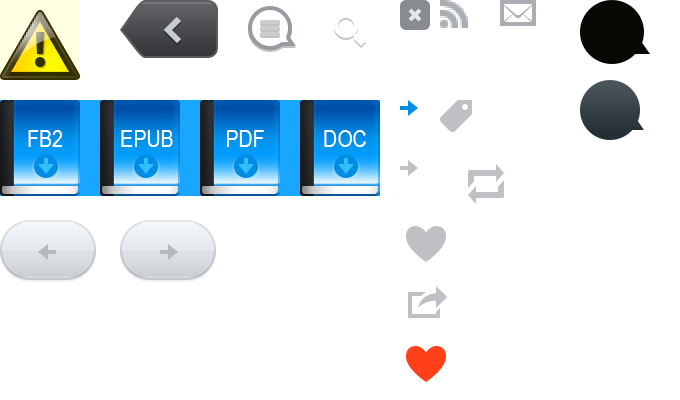
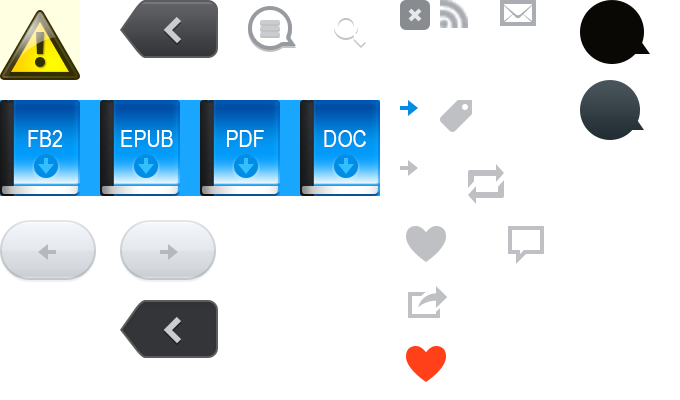
blog styles optimizing

Changed region(s): [[0.1544, 0.75, 0.3397, 0.9], [0.7412, 0.54, 0.8029, 0.66]]

diff --git a/a/css/styles.css b/a/css/styles.css
@@ -24,7 +24,7 @@ TEXTAREA{overflow:auto;resize:vertical;vertical-align:top;}
 TEXTAREA[contenteditable]{-webkit-appearance:none;}
 A.a-cta:after,.btn-back,.btn-menu:before,.btn-search:before,.ftr-copyright:before,.ico-epub,.ico-fb2,.ico-pdf,.ico-doc,.nameplate .smiley,.f-search BUTTON,.sm-rss:before,.sm-email:after,.next-page,.previous-page,.pagination .controls:before,.pft-share .body-label-4dd,.pft-like,.pft-liked,.pft-reblog A,.pft-comments I.co,.pft-tags I.co,.sys-message P:before,.warning-gl EM{background:transparent url('/a/img/base-graphics.png') no-repeat;}
 .ftr-channels I.co,.hdr-dropdown I.co,.body-dropdown I.co,.hdr-channels-facebоok,.hdr-channels-twitter,.hdr-channels-google,.hdr-channels-mail,.pst-channels-facebоok,.pst-channels-twitter,.pst-channels-google,.pst-channels-mail,.hdr-label-4dd{background:transparent url(/a/img/socials.png) no-repeat;}
-@media only screen and (-webkit-min-device-pixel-ratio:1.5),only screen and (min-resolution:144dpi){A.a-cta:after,.btn-back,.btn-menu:before,.btn-search:before,.ico-epub,.ico-fb2,.ico-pdf,.ico-doc,.nameplate .smiley,.f-search BUTTON,.sm-rss:before,.sm-email:after,.next-page,.previous-page,.pagination .controls:before,.p-front .ftr-copyright:before,.pft-share .body-label-4dd,.pft-like,.pft-liked,.pft-reblog A,.pft-comments I.co,.pft-tags I.co,.sys-message P:before,.warning-gl EM{background:transparent url(/a/img/base-graphics-x2.png) no-repeat;-webkit-background-size:340px 200px;-moz-background-size:340px 200px;-o-background-size:340px 200px;background-size:340px 200px;} .ftr-channels I.co,.hdr-dropdown I.co,.body-dropdown I.co,.hdr-channels-facebоok,.hdr-channels-twitter,.hdr-channels-google,.hdr-channels-mail,.pst-channels-facebоok,.pst-channels-twitter,.pst-channels-google,.pst-channels-mail,.hdr-label-4dd{background:transparent url(/a/img/socials-x2.png) no-repeat;-webkit-background-size:300px 100px;-moz-background-size:300px 100px;-o-background-size:300px 100px;background-size:300px 100px;}}
+@media only screen and (max-width:479px){.pft-comments .label{background:transparent url('/a/img/base-graphics.png') no-repeat;}}@media only screen and (-webkit-min-device-pixel-ratio:1.5),only screen and (min-resolution:144dpi){A.a-cta:after,.btn-back,.btn-menu:before,.btn-search:before,.ico-epub,.ico-fb2,.ico-pdf,.ico-doc,.nameplate .smiley,.f-search BUTTON,.sm-rss:before,.sm-email:after,.next-page,.previous-page,.pagination .controls:before,.p-front .ftr-copyright:before,.pft-share .body-label-4dd,.pft-like,.pft-liked,.pft-reblog A,.pft-comments I.co,.pft-tags I.co,.sys-message P:before,.warning-gl EM{background:transparent url(/a/img/base-graphics-x2.png) no-repeat;-webkit-background-size:340px 200px;-moz-background-size:340px 200px;-o-background-size:340px 200px;background-size:340px 200px;} .ftr-channels I.co,.hdr-dropdown I.co,.body-dropdown I.co,.hdr-channels-facebоok,.hdr-channels-twitter,.hdr-channels-google,.hdr-channels-mail,.pst-channels-facebоok,.pst-channels-twitter,.pst-channels-google,.pst-channels-mail,.hdr-label-4dd{background:transparent url(/a/img/socials-x2.png) no-repeat;-webkit-background-size:300px 100px;-moz-background-size:300px 100px;-o-background-size:300px 100px;background-size:300px 100px;}}@media only screen and (-webkit-min-device-pixel-ratio:1.5) and (max-width:479px),only screen and (min-resolution:144dpi) and (max-width:479px){.pft-comments .label{background:transparent url(/a/img/base-graphics-x2.png) no-repeat;-webkit-background-size:340px 200px;-moz-background-size:340px 200px;-o-background-size:340px 200px;background-size:340px 200px;}}
 HTML{overflow-y:scroll;}
 BODY{background:#ffffff repeat-x;counter-reset:section;text-align:center;margin:0;padding:0;}
 .page{background:#ffffff repeat-x;text-align:left;position:relative;margin:0 auto;min-height:100%;height:auto;*height:100%;max-width:960px;width:auto;*width:960px;*zoom:1;}
@@ -328,7 +328,7 @@ BUTTON{*padding:11px 10px;}
 .btn-small{padding:6px 10px;*padding:4px 10px;}
 TABLE BUTTON,TABLE .btn{*overflow:auto;}
 BUTTON.clear,BUTTON.close{background:#abaeb2;}
-@media only screen and (max-width:767px){.doc-body{}.doc-body BUTTON,.doc-body .btn{display:block;margin-top:-0.058823529411764705em;margin-bottom:1.8823529411764708em;padding:0.6470588235294118em 13px;width:100%;} .doc-body BUTTON+BUTTON,.doc-body .btn+.btn{margin-top:0.6470588235294118em;} .btn-menu,.btn-option,.btn-search{background-color:#4d4f52;background-image:-moz-linear-gradient(top, #5f6164, #333538);background-image:-webkit-gradient(linear, 0 0, 0 100%, from(#5f6164), to(#333538));background-image:-webkit-linear-gradient(top, #5f6164, #333538);background-image:-o-linear-gradient(top, #5f6164, #333538);background-image:linear-gradient(to bottom, #5f6164, #333538);background-repeat:repeat-x;filter:progid:DXImageTransform.Microsoft.Gradient(startColorstr=#5f6164, endColorstr=#333538, GradientType=0);border-color:rgba(0, 0, 0, 0.64);-webkit-border-radius:5px;-moz-border-radius:5px;border-radius:5px;-webkit-box-shadow:inset 0 1px 0 #76787a, 0 1px 0 rgba(255, 255, 255, 0.2);-moz-box-shadow:inset 0 1px 0 #76787a, 0 1px 0 rgba(255, 255, 255, 0.2);box-shadow:inset 0 1px 0 #76787a, 0 1px 0 rgba(255, 255, 255, 0.2);color:#C9CCD0 !important;display:inline-block;font-size:75%;font-weight:bold;line-height:1;margin:0;padding:9px 9px 6px;position:absolute;min-height:12px;min-width:24px;}.btn-menu:hover,.btn-option:hover,.btn-search:hover,.btn-menu:active,.btn-option:active,.btn-search:active{background-color:#333538;} .btn-back{background-color:transparent;border-width:0;display:block;direction:ltr;text-align:left;text-indent:-4000em;overflow:hidden;background-position:-60px 0;cursor:pointer;display:inline-block;font-size:75%;line-height:1;position:absolute;min-height:12px;min-width:24px;vertical-align:middle;height:30px;width:49px;*zoom:1;}.btn-back:hover{background-position:-120px 0;} .btn-back:active{background-position:-180px 0;} .btn-back,.btn-menu,.btn-option,.btn-search{top:7px;} .btn-back,.btn-menu{left:10px;} .btn-option,.btn-search{right:10px;} .btn-menu,.btn-search{background-color:transparent;border-width:1px;display:block;direction:ltr;text-align:left;text-indent:-4000em;overflow:hidden;*zoom:expression(this.runtimeStyle.zoom="1", this.appendChild( document.createElement("span") ).className="before");}.btn-menu:before,.btn-search:before,.btn-menu .before,.btn-search .before{content:'';display:block;line-height:0;position:absolute;top:0;left:6px;height:30px;width:30px;} .btn-menu:before,.btn-menu .before{background-position:-120px 0;} .btn-search:before,.btn-search .before{background-position:-280px 0;}}
+@media only screen and (max-width:767px){.doc-body{}.doc-body BUTTON,.doc-body .btn{display:block;margin-top:-0.058823529411764705em;margin-bottom:1.8823529411764708em;padding:0.6470588235294118em 13px;width:100%;} .doc-body BUTTON+BUTTON,.doc-body .btn+.btn{margin-top:0.6470588235294118em;} .btn-menu,.btn-option,.btn-search{background-color:#4d4f52;background-image:-moz-linear-gradient(top, #5f6164, #333538);background-image:-webkit-gradient(linear, 0 0, 0 100%, from(#5f6164), to(#333538));background-image:-webkit-linear-gradient(top, #5f6164, #333538);background-image:-o-linear-gradient(top, #5f6164, #333538);background-image:linear-gradient(to bottom, #5f6164, #333538);background-repeat:repeat-x;filter:progid:DXImageTransform.Microsoft.Gradient(startColorstr=#5f6164, endColorstr=#333538, GradientType=0);border-color:rgba(0, 0, 0, 0.64);-webkit-border-radius:5px;-moz-border-radius:5px;border-radius:5px;-webkit-box-shadow:inset 0 1px 0 #76787a, 0 1px 0 rgba(255, 255, 255, 0.2);-moz-box-shadow:inset 0 1px 0 #76787a, 0 1px 0 rgba(255, 255, 255, 0.2);box-shadow:inset 0 1px 0 #76787a, 0 1px 0 rgba(255, 255, 255, 0.2);color:#C9CCD0 !important;display:inline-block;font-size:75%;font-weight:bold;line-height:1;margin:0;padding:9px 9px 6px;position:absolute;min-height:12px;min-width:24px;}.btn-menu:hover,.btn-option:hover,.btn-search:hover,.btn-menu:active,.btn-option:active,.btn-search:active{background-color:#333538;} .btn-back{background-color:transparent;border-width:0;display:block;direction:ltr;text-align:left;text-indent:-4000em;overflow:hidden;background-position:-60px 0;cursor:pointer;display:inline-block;font-size:75%;line-height:1;position:absolute;min-height:12px;min-width:24px;vertical-align:middle;height:30px;width:49px;*zoom:1;}.btn-back:active{background-position:-60px -150px;} .btn-back,.btn-menu,.btn-option,.btn-search{top:7px;} .btn-back,.btn-menu{left:10px;} .btn-option,.btn-search{right:10px;} .btn-menu,.btn-search{background-color:transparent;border-width:1px;display:block;direction:ltr;text-align:left;text-indent:-4000em;overflow:hidden;*zoom:expression(this.runtimeStyle.zoom="1", this.appendChild( document.createElement("span") ).className="before");}.btn-menu:before,.btn-search:before,.btn-menu .before,.btn-search .before{content:'';display:block;line-height:0;position:absolute;top:0;left:6px;height:30px;width:30px;} .btn-menu:before,.btn-menu .before{background-position:-120px 0;} .btn-search:before,.btn-search .before{background-position:-280px 0;}}
 .warning-gl{background:#ffffe1;}.warning-gl P{background:#ffffe1;-webkit-box-sizing:border-box;-moz-box-sizing:border-box;box-sizing:border-box;*behavior:url(/a/js/boxsizing.htc);*display:inline;text-align:left;margin:0 auto;padding:2.823529411764706em 40px 1.411764705882353em 80px;position:relative;max-width:840px;width:auto;*width:840px;*zoom:1;}
 .warning-gl EM{background-color:transparent;border-width:0;display:block;direction:ltr;text-align:left;text-indent:-4000em;overflow:hidden;position:absolute;top:2.823529411764706em;left:20px;height:40px;width:40px;}
 @media only screen and (max-width:767px){.warning-gl P{padding:2.588235294117647em 40px 1.2941176470588236em 80px;*width:auto;} .warning-gl EM{top:2.588235294117647em;}}
@@ -420,7 +420,7 @@ BUTTON.clear,BUTTON.close{background:#abaeb2;}
 .pft-comments .note{color:#909295;cursor:default;text-decoration:none;}
 .notes IMG,.notes .more_notes_link_container{display:inline-block;*display:inline;*zoom:1;margin:0 .4em 0 0;}
 .notes .clear{display:none;}
-@media only screen and (min-width:768px) and (max-width:979px){}@media only screen and (max-width:767px){.post-link H1,.post-video H1,.post-audio H1{line-height:1.2941176470588236em;} .post-audio .player{padding-bottom:1.2941176470588236em;} .post-text H1+IMG{margin-top:1.2941176470588236em;} .pft{margin-bottom:2.588235294117647em;padding-bottom:0.8235294117647058em;} .pft-tags{display:none;} #tumblr_controls{display:none;}}@media only screen and (max-width:479px){.pft-date{display:none;}}
+@media only screen and (min-width:768px) and (max-width:979px){}@media only screen and (max-width:767px){.post-link H1,.post-video H1,.post-audio H1{line-height:1.2941176470588236em;} .post-audio .player{padding-bottom:1.2941176470588236em;} .post-text H1+IMG{margin-top:1.2941176470588236em;} .pft{margin-bottom:2.588235294117647em;padding-bottom:0.8235294117647058em;} .pft-tags{display:none;} #tumblr_controls{display:none;}}@media only screen and (max-width:479px){.pft-date{display:none;} .pft-share{border-left:0 none;} .pft-comments{padding-left:0;}.pft-comments .label{background-position:-240px -110px;background-color:transparent;border-width:0;display:inline-block;direction:ltr;text-align:left;text-indent:-4000em;overflow:hidden;cursor:pointer;height:24px;width:40px;}}
 .mob,.mob-inl,.tbl,.tbl-inl,.tbl-mob,.tbl-mob-inl{display:none;}
 .tel{color:#000000;cursor:default;white-space:nowrap;}.tel:hover{color:#000000;text-decoration:none;}
 .tel I{color:#909295;font-style:normal;}

diff --git a/a/js/scripts.js b/a/js/scripts.js
@@ -175,6 +175,7 @@ function tumblrLike() {
     }, false);
 }
 
+
 $(document).ready(function(){
     $('iframe[src^="http://player.vimeo.com"], iframe[src^="http://www.youtube.com"], iframe[src*="dailymotion.com"], object:not([class*="not-video"]):not(:has(embed)), embed:not([class*="not-video"])').wrap('<figure class="video" />');
     $('ol, ul').prev('p').css('margin-bottom', '0'); //lists captions
@@ -183,7 +184,7 @@ $(document).ready(function(){
     tumblrLike();
     $('.box-testimonials').rotaterator({fadeSpeed:1200, pauseSpeed:8000});
     $('<div class="box-cta-hr"></div>').insertBefore('.box-cta .h-secondary');
-
+    $('.btn-back').click(function(){ parent.history.back(); return false;});
 });
 
 function noError() {
